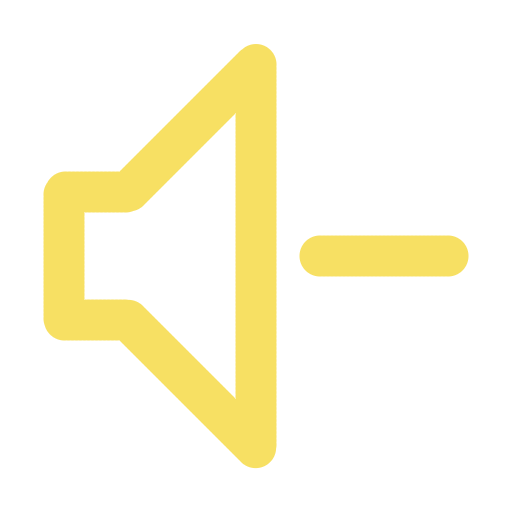
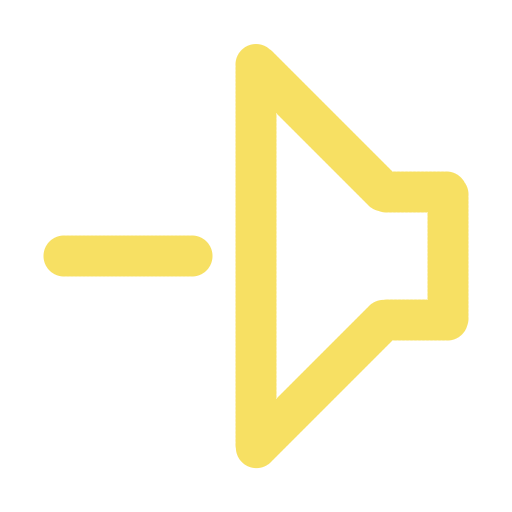
15-Feb-23

Changed region(s): [[0.5312, 0.0938, 0.9375, 0.9062], [0.0625, 0.0938, 0.4688, 0.9062]]

diff --git a/subs/portal_sonos.py b/subs/portal_sonos.py
@@ -36,7 +36,9 @@ class glb:
     lastUpdate = 0
 
     config = {}
+    knownConfig = {"volumeMax": int, "seekStep": int}
 
+    useAlbumArt = True
     videoScolling = False
     skipUiUpdate = True
 
@@ -127,11 +129,9 @@ class sonosControl:
 
 def setup():
     if f.cache("page_portal_sonos") is None or f.cache("page_links") == "":
-        f.cache("page_portal_sonos", dumps({"volumeMax": 50, "seekStep": 10}))
+        f.cache("page_portal_sonos", dumps({"volumeMax": 50, "seekStep": 15}))
 
-    sonosConfig = loads(f.cache("page_portal_sonos"))
-
-    glb.config = sonosConfig
+    glb.config = loads(f.cache("page_portal_sonos"))
 
 
 def pageSub(args):
@@ -141,6 +141,9 @@ def pageSub(args):
 
     def player():
         def updateUI():
+            if not glb.currentSub == "Player":
+                return None
+
             data = ws.msgDict()["sonos"]
 
             if data["device"]["playback"] == "busy":
@@ -170,8 +173,9 @@ def pageSub(args):
             if int(ws.msgDict()["sonos"]["track"]["duration"].split(":")[0]) == 0:
                 durStr = ":".join(ws.msgDict()["sonos"]["track"]["duration"].split(":")[1:])
 
-            HTML.get(f'Image_AlbumArt').src = data["track"]["album_art"]
-            HTML.get(f'Image_AlbumArt').alt = data["track"]["title"]
+            if glb.useAlbumArt:
+                HTML.get(f'Image_AlbumArt').src = data["track"]["album_art"]
+                HTML.get(f'Image_AlbumArt').alt = data["track"]["title"]
 
             HTML.get(f'SubPage_page_timeline_position').innerHTML = posStr
             HTML.get(f'SubPage_page_timeline_duration').innerHTML = durStr
@@ -240,8 +244,11 @@ def pageSub(args):
 
         def addVideo():
             data = ws.msgDict()["sonos"]
+
             f.log(str(data["device"]))
             f.log(str(data["track"]))
+
+            return None
 
             pos = datetime.strptime(data["track"]["position"], "%H:%M:%S")
             pos = (pos.hour * 3600) + (pos.minute * 60) + pos.second
@@ -267,7 +274,7 @@ def pageSub(args):
         def addControls():
             data = ws.msgDict()["sonos"]
 
-            HTML.add(f'div', f'SubPage_page_main', _id=f'SubPage_page_buttons', _style=f'divNormal %% flex %% width: 50%; margin: 0px; padding: 0px;')
+            HTML.add(f'div', f'SubPage_page_main', _id=f'SubPage_page_buttons', _style=f'divNormal %% flex %% width: 90%; max-width: 500px; margin: 0px; padding: 0px;')
 
             for action in ["VolumeDown", "SeekBackward", "Back", "Pause", "Next", "SeekForward", "VolumeUp"]:
                 img = HTML.add(f'img', _id=f'SubPage_page_buttons_img{action}', _style=f'width: 100%;', _custom=f'src="docs/assets/Portal/Sonos/{action}.png" alt="{action}"')
@@ -278,7 +285,7 @@ def pageSub(args):
                 HTML.get(f'SubPage_page_buttons_imgPause').src = f'docs/assets/Portal/Sonos/Play.png'
                 HTML.get(f'SubPage_page_buttons_imgPause').alt = f'Play'
 
-            HTML.add(f'div', f'SubPage_page_main', _id=f'SubPage_page_volume', _style=f'divNormal %% flex %% width: 50%; margin: 0px; padding: 0px; justify-content: center;')
+            HTML.add(f'div', f'SubPage_page_main', _id=f'SubPage_page_volume', _style=f'divNormal %% flex %% width: 80%; max-width: 450px; margin: 0px; padding: 0px; justify-content: center;')
 
             options = ""
             for option in range(0, 101, int(glb.config["volumeMax"] / 10)):
@@ -313,7 +320,7 @@ def pageSub(args):
 
         updateUI()
 
-        # f.afterDelay(CSS.get(f'SubPage_page_main', f'scrollIntoView'), 1000)
+        f.afterDelay(CSS.get(f'SubPage_page_main', f'scrollIntoView'), 1000)
 
     def qr():
         HTML.add(f'div', f'SubPage_page', _id=f'SubPage_page_main', _style=f'divNormal %% flex %% justify-content: center;')
@@ -327,7 +334,187 @@ def pageSub(args):
         HTML.add(f'div', f'SubPage_page_main', _nest=f'{txt}{img}', _id=f'SubPage_page_main_qrIos', _style=f'divNormal %% margin: 15px 50px;')
 
     def config():
-        pass
+        def editRecord(args):
+            def submit(args):
+                if not args.key in ["Enter", "Escape"]:
+                    return None
+
+                el = HTML.get(f'{args.target.id}')
+
+                if "_" in el.id:
+                    mainValue = list(glb.knownConfig)[-1]
+                    knownValues = glb.knownConfig[mainValue]
+                    value = el.id.split("_")[1]
+
+                else:
+                    mainValue = None
+                    knownValues = glb.knownConfig
+                    value = el.id
+
+                data = el.value.replace(" ", "%20")
+                width = el.style.width
+
+                if el.localName == "select":
+                    width = f'{float(width.replace("%", "")) - 0.5}%'
+
+                if data == "":
+                    data = "%20"
+
+                styleP = f'margin: -1px -1px; padding: 0px 1px; border: 2px solid #111; text-align: center; font-size: 75%; word-wrap: break-word; background: #1F1F1F; color: #44F;'
+                html = f'<p class="{el.className}" id="{el.id}" style="{styleP}">{data.replace("%20", " ")}</p>'
+
+                if value in knownValues:
+                    if knownValues[value] is int:
+                        try:
+                            data = int(data)
+                        except ValueError:
+                            f.popup(f'alert', f'{data} is not a number!\nPlease enter a valid number.')
+                            return None
+
+                    elif knownValues[value] is list:
+                        data = []
+
+                        for i in range(0, int(args.target.name.split("_")[1])):
+                            if args.target.item(i).selected is True:
+                                data.append(args.target.item(i).value)
+
+                        data = ", ".join(data).replace(" ", "%20")
+                        html = f'<p class="{el.className}" id="{el.id}" style="{styleP}">{data.replace("%20", " ")}</p>'
+
+                glb.config[value] = data
+                f.cache("page_portal_sonos", dumps(glb.config))
+
+                el.outerHTML = html
+
+                CSS.setStyle(f'{el.id}', f'width', f'{width}')
+
+                f.addEvent(el.id, editRecord, "dblclick")
+
+            el = HTML.get(f'{args.target.id}')
+            width = el.style.width
+            parantHeight = HTML.get(el.parentElement.id).offsetHeight
+
+            if "_" in el.id:
+                value = el.id.split("_")[1]
+                mainValue = list(glb.knownConfig)[-1]
+                knownValues = glb.knownConfig[mainValue]
+
+            else:
+                value = el.id
+                mainValue = None
+                knownValues = glb.knownConfig
+
+            if el.innerHTML == " ":
+                el.innerHTML = ""
+
+            styleInp = f'margin: -1px -1px; padding: 1px 1px 4px 1px; background: #333; font-size: 75%; border-radius: 0px; border: 2px solid #111;'
+            styleSlc = f'height: {parantHeight + 4}px; margin: -1px -1px; padding: 1px 1px; background: #333; font-size: 75%; border-radius: 0px; border: 2px solid #111;'
+            html = HTML.add(f'input', _id=f'{el.id}', _class=f'{el.className}', _type=f'text', _style=f'inputMedium %% {styleInp}', _custom=f'name="{value}" value="{el.innerHTML}"')
+
+            if value in knownValues:
+                if knownValues[value] is int:
+                    html = HTML.add(f'input', _id=f'{el.id}', _class=f'{el.className}', _type=f'text', _style=f'inputMedium %% {styleInp}', _custom=f'name="{value}" value="{el.innerHTML}"')
+
+                elif knownValues[value] is bool:
+                    if el.innerHTML == "No":
+                        glb.config[value] = data
+                        f.cache("page_portal_sonos", dumps(glb.config))
+
+                        el.innerHTML = "Yes"
+                        return None
+
+                    glb.config[value] = data
+                    f.cache("page_portal_sonos", dumps(glb.config))
+
+                    el.innerHTML = "No"
+                    return None
+
+                elif knownValues[value] is list:
+                    if glb.optionsList == []:
+                        glb.config[value] = data
+                        f.cache("page_portal_sonos", dumps(glb.config))
+
+                    else:
+                        data = glb.optionsList
+
+                    optionsHtml = f''
+
+                    for option in data:
+                        optionsHtml += HTML.add(f'option', _nest=f'{option}', _custom=f'value="{option}"')
+
+                    html = HTML.add(f'select', _nest=f'{optionsHtml}', _id=f'{el.id}', _class=f'{el.className}', _style=f'selectSmall %% {styleSlc}', _custom=f'name="{value}_{len(data)}" size="1" multiple')
+
+            el.outerHTML = html
+
+            el = HTML.get(f'{el.id}')
+            el.style.width = width
+
+            if el.localName == "select":
+                el.style.width = f'{float(width.replace("%", "")) + 0.5}%'
+
+                CSS.onHover(el.id, f'selectHover %% margin-bottom: { - 105 + parantHeight}px;')
+                CSS.onFocus(el.id, f'selectFocus %% margin-bottom: { - 105 + parantHeight}px;')
+
+            else:
+                CSS.onHover(el.id, f'inputHover')
+                CSS.onFocus(el.id, f'inputFocus')
+
+            f.addEvent(el.id, submit, "keyup")
+
+        def addMinimal(data):
+            def addHeader():
+                rowC = 0
+                HTML.add(f'div', f'SubPage_page', _id=f'SubPage_page_row{rowC}', _align=f'left', _style=f'display: flex;')
+
+                styleP = f'margin: -1px -1px; padding: 0px 1px; border: 2px solid #111; text-align: center; font-size: 100%; word-wrap: break-word; background: #1F1F1F; color: #44F; font-weight: bold;'
+
+                for header in ["Key", "Value"]:
+                    HTML.add(f'p', f'SubPage_page_row{rowC}', _nest=f'{header}', _class=f'SubPage_page_keys', _style=f'{styleP}')
+
+                return rowC
+
+            def addRows(data, rowC):
+                knownValues = glb.knownConfig
+                styleP = f'margin: -1px -1px; padding: 0px 1px; border: 2px solid #111; text-align: center; font-size: 75%; word-wrap: break-word; background: #1F1F1F; color: #44F;'
+
+                HTMLrows = f''
+                for key in data:
+                    rowC += 1
+                    HTMLcols = HTML.add(f'p', _nest=f'{key}', _class=f'SubPage_page_keys', _style=f'{styleP}')
+                    value = data[key]
+
+                    if knownValues[key] is int:
+                        HTMLcols += HTML.add(f'p', _nest=f'{value}', _id=f'{key}', _class=f'SubPage_page_keys', _style=f'{styleP}')
+
+                    elif knownValues[key] is bool:
+                        if value:
+                            HTMLcols += HTML.add(f'p', _nest=f'Yes', _id=f'{key}', _class=f'SubPage_page_keys', _style=f'{styleP}')
+
+                        HTMLcols += HTML.add(f'p', _nest=f'No', _id=f'{key}', _class=f'SubPage_page_keys', _style=f'{styleP}')
+
+                    elif knownValues[key] is list:
+                        HTMLcols += HTML.add(f'p', _nest=f'{", ".join(value)}', _id=f'{key}', _class=f'SubPage_page_keys', _style=f'{styleP}')
+
+                    else:
+                        HTMLcols += HTML.add(f'p', _nest=f'{value}', _id=f'{key}', _class=f'SubPage_page_keys', _style=f'{styleP}')
+
+                    HTMLrows += HTML.add(f'div', _nest=f'{HTMLcols}', _id=f'SubPage_page_row{rowC}', _align=f'left', _style=f'display: flex;')
+
+                HTML.addRaw(f'SubPage_page', f'{HTMLrows}')
+
+                return rowC
+
+            rowC = addHeader()
+            rowC = addRows(data, rowC)
+
+            for item in HTML.get(f'SubPage_page_keys', isClass=True):
+                item.style.width = "50%"
+
+            for item in HTML.get(f'SubPage_page_keys', isClass=True):
+                if item.id != "":
+                    f.addEvent(item, editRecord, "dblclick", isClass=True)
+
+        addMinimal(glb.config)
 
     pageSubMap = {"Player": player, "QR": qr, "Config": config}
 
